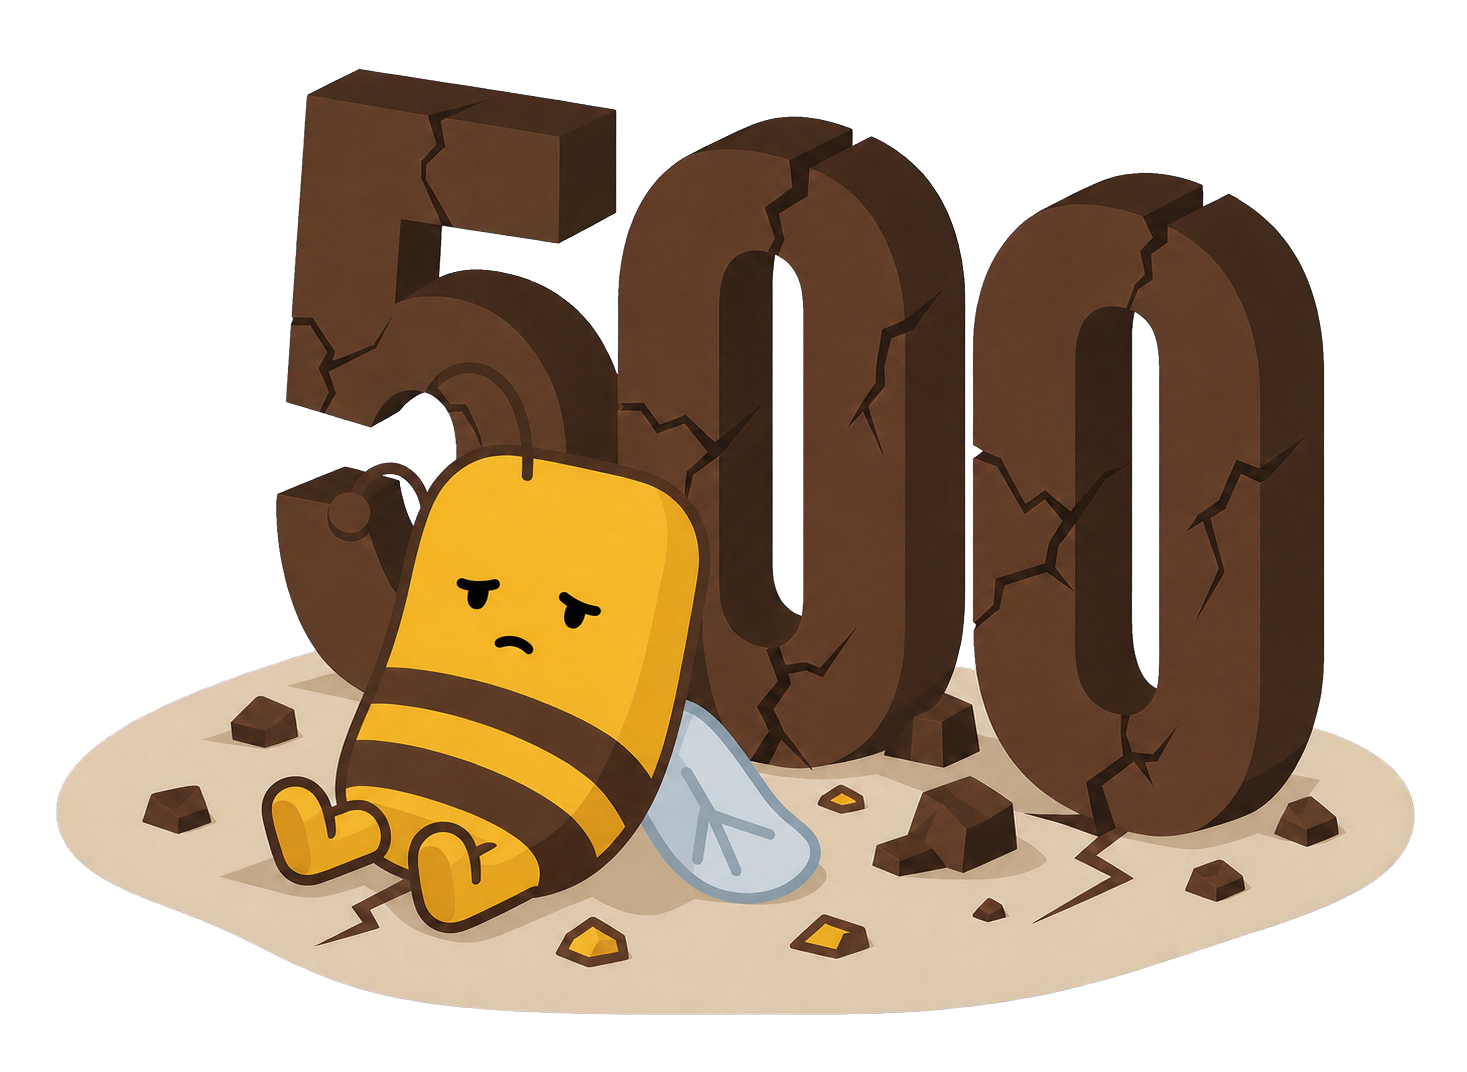
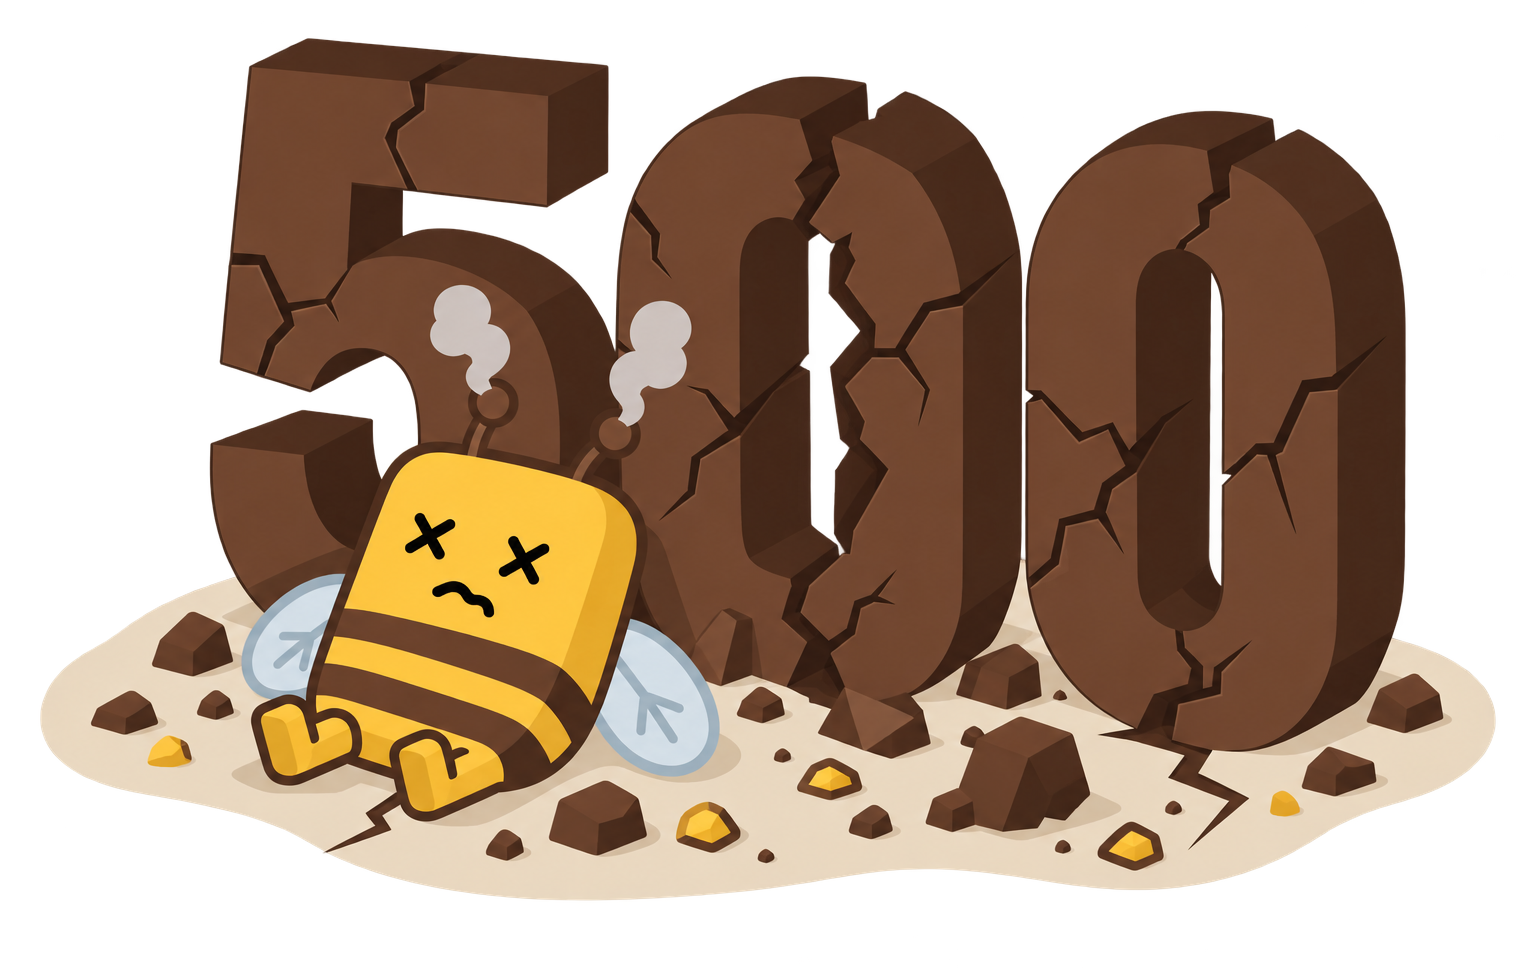
feat(ui): new 404 and 500 art
Same world as before (cracked chocolate digits on a patch of sand) with
the mascot back on model. 404 now reads as "not found": the bee has dug
a hole in front of the digits and peeks out, puzzled. 500 has it slumped
against the 5, short-circuited, smoke rising from its antennae.

diff --git a/frontend/src/routes/+error.svelte b/frontend/src/routes/+error.svelte
@@ -15,8 +15,8 @@
   <img
     src={page.status >= 500 ? "/error-500.png" : "/error-404.png"}
     alt={page.status >= 500
-      ? "BeePub mascot sitting dazed in front of a cracked 500"
-      : "BeePub mascot lying in front of a cracked 404"}
+      ? "BeePub mascot slumped against a cracked 500, smoke rising from its antennae"
+      : "BeePub mascot peeking out of a hole it dug in front of a cracked 404, puzzled"}
     style="width: min(34rem, 85vw); max-height: 42dvh; height: auto; object-fit: contain;"
     class="mb-4"
   />
